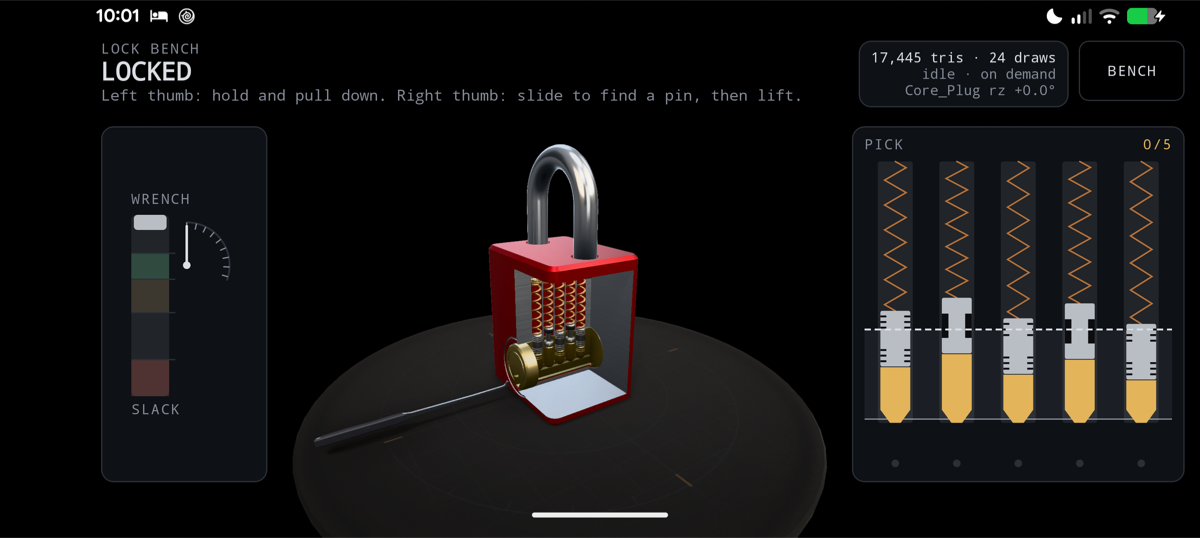
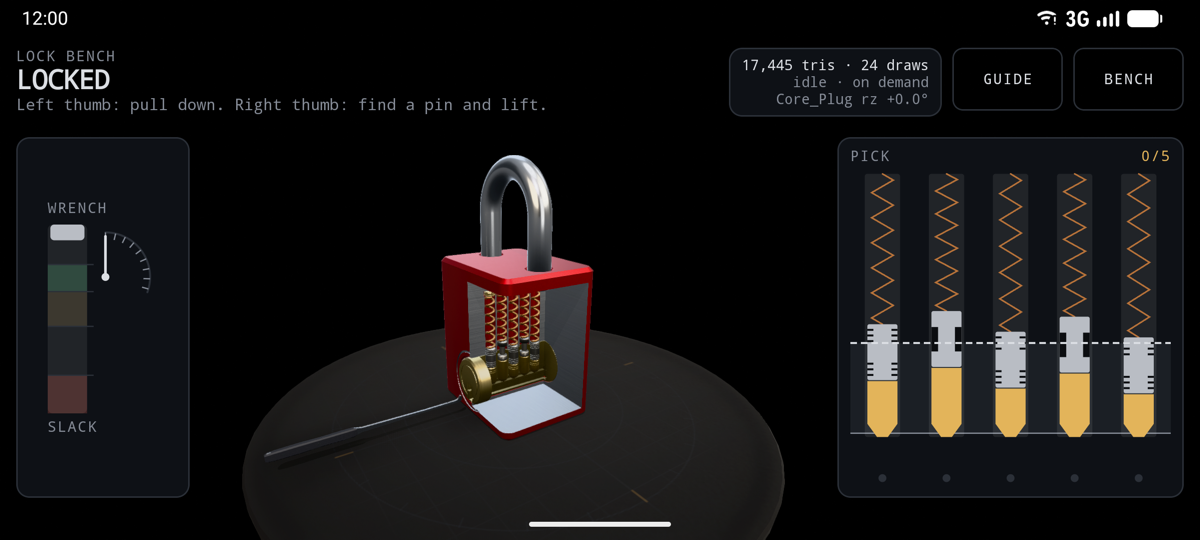
Remember the camera preset and hints between launches
Only choices made on the open bench are kept: a blind round's own
camera moves and its hints-off never overwrite them.

diff --git a/app/src/main/kotlin/com/lockpicking/bench/data/BenchPrefs.kt b/app/src/main/kotlin/com/lockpicking/bench/data/BenchPrefs.kt
@@ -2,30 +2,59 @@ package com.lockpicking.bench.data
 
 import androidx.datastore.core.DataStore
 import androidx.datastore.preferences.core.Preferences
+import androidx.datastore.preferences.core.booleanPreferencesKey
 import androidx.datastore.preferences.core.edit
 import androidx.datastore.preferences.core.stringPreferencesKey
 import com.lockpicking.bench.domain.model.LockModel
+import com.lockpicking.bench.ui.bench.CameraPreset
 import kotlinx.coroutines.flow.first
+
+/** How the open bench was left: what it opens on next launch. */
+data class SavedBench(
+  val lock: LockModel = LockModel.Trainer,
+  val preset: CameraPreset = CameraPreset.ShearSide,
+  val hints: Boolean = true,
+)
 
 /** Bench choices kept between launches. */
 interface BenchPrefs {
-  /** The lock last put on the bench, or null if none was ever chosen (or it has since gone). */
-  suspend fun lastLock(): LockModel?
+  /** What was saved, with the defaults for anything never saved (or no longer known). */
+  suspend fun load(): SavedBench
 
-  suspend fun saveLastLock(lock: LockModel)
+  suspend fun saveLock(lock: LockModel)
+
+  suspend fun savePreset(preset: CameraPreset)
+
+  suspend fun saveHints(hints: Boolean)
 }
 
 class DataStoreBenchPrefs(private val store: DataStore<Preferences>) : BenchPrefs {
-  override suspend fun lastLock(): LockModel? {
-    val id = store.data.first()[LAST_LOCK] ?: return null
-    return LockModel.entries.firstOrNull { it.id == id }
+  override suspend fun load(): SavedBench {
+    val prefs = store.data.first()
+    val defaults = SavedBench()
+    return SavedBench(
+      lock = prefs[LOCK]?.let { id -> LockModel.entries.firstOrNull { it.id == id } } ?: defaults.lock,
+      // Only the angles the drawer offers: the blind angle belongs to a round.
+      preset = prefs[PRESET]?.let { name -> CameraPreset.entries.firstOrNull { it.name == name && it.inDrawer } } ?: defaults.preset,
+      hints = prefs[HINTS] ?: defaults.hints,
+    )
   }
 
-  override suspend fun saveLastLock(lock: LockModel) {
-    store.edit { it[LAST_LOCK] = lock.id }
+  override suspend fun saveLock(lock: LockModel) {
+    store.edit { it[LOCK] = lock.id }
+  }
+
+  override suspend fun savePreset(preset: CameraPreset) {
+    store.edit { it[PRESET] = preset.name }
+  }
+
+  override suspend fun saveHints(hints: Boolean) {
+    store.edit { it[HINTS] = hints }
   }
 
   private companion object {
-    val LAST_LOCK = stringPreferencesKey("last_lock")
+    val LOCK = stringPreferencesKey("last_lock")
+    val PRESET = stringPreferencesKey("camera_preset")
+    val HINTS = booleanPreferencesKey("hints")
   }
 }

diff --git a/app/src/test/kotlin/com/lockpicking/bench/ui/bench/LockBenchViewModelTest.kt b/app/src/test/kotlin/com/lockpicking/bench/ui/bench/LockBenchViewModelTest.kt
@@ -3,6 +3,7 @@ package com.lockpicking.bench.ui.bench
 import com.lockpicking.bench.data.BenchPrefs
 import com.lockpicking.bench.data.GameRecords
 import com.lockpicking.bench.data.LockAssetRepository
+import com.lockpicking.bench.data.SavedBench
 import com.lockpicking.bench.data.glb.GlbInfo
 import com.lockpicking.bench.domain.bench.Keyway
 import com.lockpicking.bench.domain.game.GameClock
@@ -67,10 +68,23 @@ class LockBenchViewModelTest {
 
   private val records = FakeRecords()
 
-  private class FakePrefs(var lock: LockModel? = null) : BenchPrefs {
-    override suspend fun lastLock(): LockModel? = lock
-    override suspend fun saveLastLock(lock: LockModel) {
+  private class FakePrefs : BenchPrefs {
+    var lock: LockModel? = null
+    var preset: CameraPreset? = null
+    var hints: Boolean? = null
+
+    override suspend fun load(): SavedBench {
+      val defaults = SavedBench()
+      return SavedBench(lock ?: defaults.lock, preset ?: defaults.preset, hints ?: defaults.hints)
+    }
+    override suspend fun saveLock(lock: LockModel) {
       this.lock = lock
+    }
+    override suspend fun savePreset(preset: CameraPreset) {
+      this.preset = preset
+    }
+    override suspend fun saveHints(hints: Boolean) {
+      this.hints = hints
     }
   }
 
@@ -504,6 +518,36 @@ class LockBenchViewModelTest {
     assertTrue(next.uiState.value.restored)
     assertEquals(LockModel.Master3, next.uiState.value.lock)
     assertEquals(listOf(LockModel.Master3), repository.asked)
+  }
+
+  @Test
+  fun `the camera and hints chosen on the bench are remembered for the next launch`() = runTest(dispatcher) {
+    val vm = bound(viewModel())
+    vm.onPresetSelected(CameraPreset.Isometric)
+    vm.onHintsToggled()
+    advanceUntilIdle()
+    assertEquals(CameraPreset.Isometric, prefs.preset)
+    assertEquals(false, prefs.hints)
+
+    val next = viewModel()
+    assertEquals(CameraPreset.Isometric, next.uiState.value.preset)
+    assertFalse(next.uiState.value.hints)
+  }
+
+  @Test
+  fun `a blind round's camera and hints are not saved over the bench's`() = runTest(dispatcher) {
+    prefs.preset = CameraPreset.KeywayFront
+    val vm = bound(viewModel())
+    vm.onGameStarted(GameTier.Apprentice)
+    pickOpenByHand(vm)
+    vm.onPresetSelected(CameraPreset.Isometric)
+    vm.onHintsToggled()
+    vm.onGameQuit()
+    advanceUntilIdle()
+    assertEquals(CameraPreset.KeywayFront, prefs.preset)
+    assertNull(prefs.hints)
+    // Giving up hands back the bench's own hints, which were on.
+    assertTrue(vm.uiState.value.hints)
   }
 
   @Test

diff --git a/app/src/main/kotlin/com/lockpicking/bench/ui/bench/LockBenchViewModel.kt b/app/src/main/kotlin/com/lockpicking/bench/ui/bench/LockBenchViewModel.kt
@@ -98,12 +98,13 @@ class LockBenchViewModel(
   private var infoLoad: Job? = null
 
   init {
-    // The bench opens on the lock it was left with. Nothing loads until that is known, so the
-    // trainer never flashes up first.
+    // The bench opens as it was left: lock, camera and hints. Nothing loads until that is known,
+    // so the trainer never flashes up first.
     viewModelScope.launch {
-      val lock = prefs.lastLock() ?: LockModel.Trainer
-      _uiState.update { it.copy(lock = lock, restored = true) }
-      loadModelInfo(lock)
+      val saved = prefs.load()
+      sandboxHints = saved.hints
+      _uiState.update { it.copy(lock = saved.lock, preset = saved.preset, hints = saved.hints, restored = true) }
+      loadModelInfo(saved.lock)
     }
   }
 
@@ -146,7 +147,7 @@ class LockBenchViewModel(
         restored = true,
       )
     }
-    viewModelScope.launch { prefs.saveLastLock(lock) }
+    viewModelScope.launch { prefs.saveLock(lock) }
     loadModelInfo(lock)
   }
 
@@ -247,7 +248,10 @@ class LockBenchViewModel(
 
   fun onHintsToggled() {
     if (picking()) return
-    _uiState.update { it.copy(hints = !it.hints) }
+    val hints = !_uiState.value.hints
+    _uiState.update { it.copy(hints = hints) }
+    // After a round the hints go back to the bench's own when the game ends: only those are kept.
+    if (_uiState.value.game == null) viewModelScope.launch { prefs.saveHints(hints) }
   }
 
   fun onHandsSwapped() = _uiState.update { it.copy(swapHands = !it.swapHands) }
@@ -273,6 +277,8 @@ class LockBenchViewModel(
   fun onPresetSelected(preset: CameraPreset) {
     if (picking()) return
     _uiState.update { it.copy(preset = preset, presetResetKey = it.presetResetKey + 1) }
+    // Looking around the reveal after a round is not a choice for the open bench.
+    if (_uiState.value.game == null) viewModelScope.launch { prefs.savePreset(preset) }
   }
 
   /**
